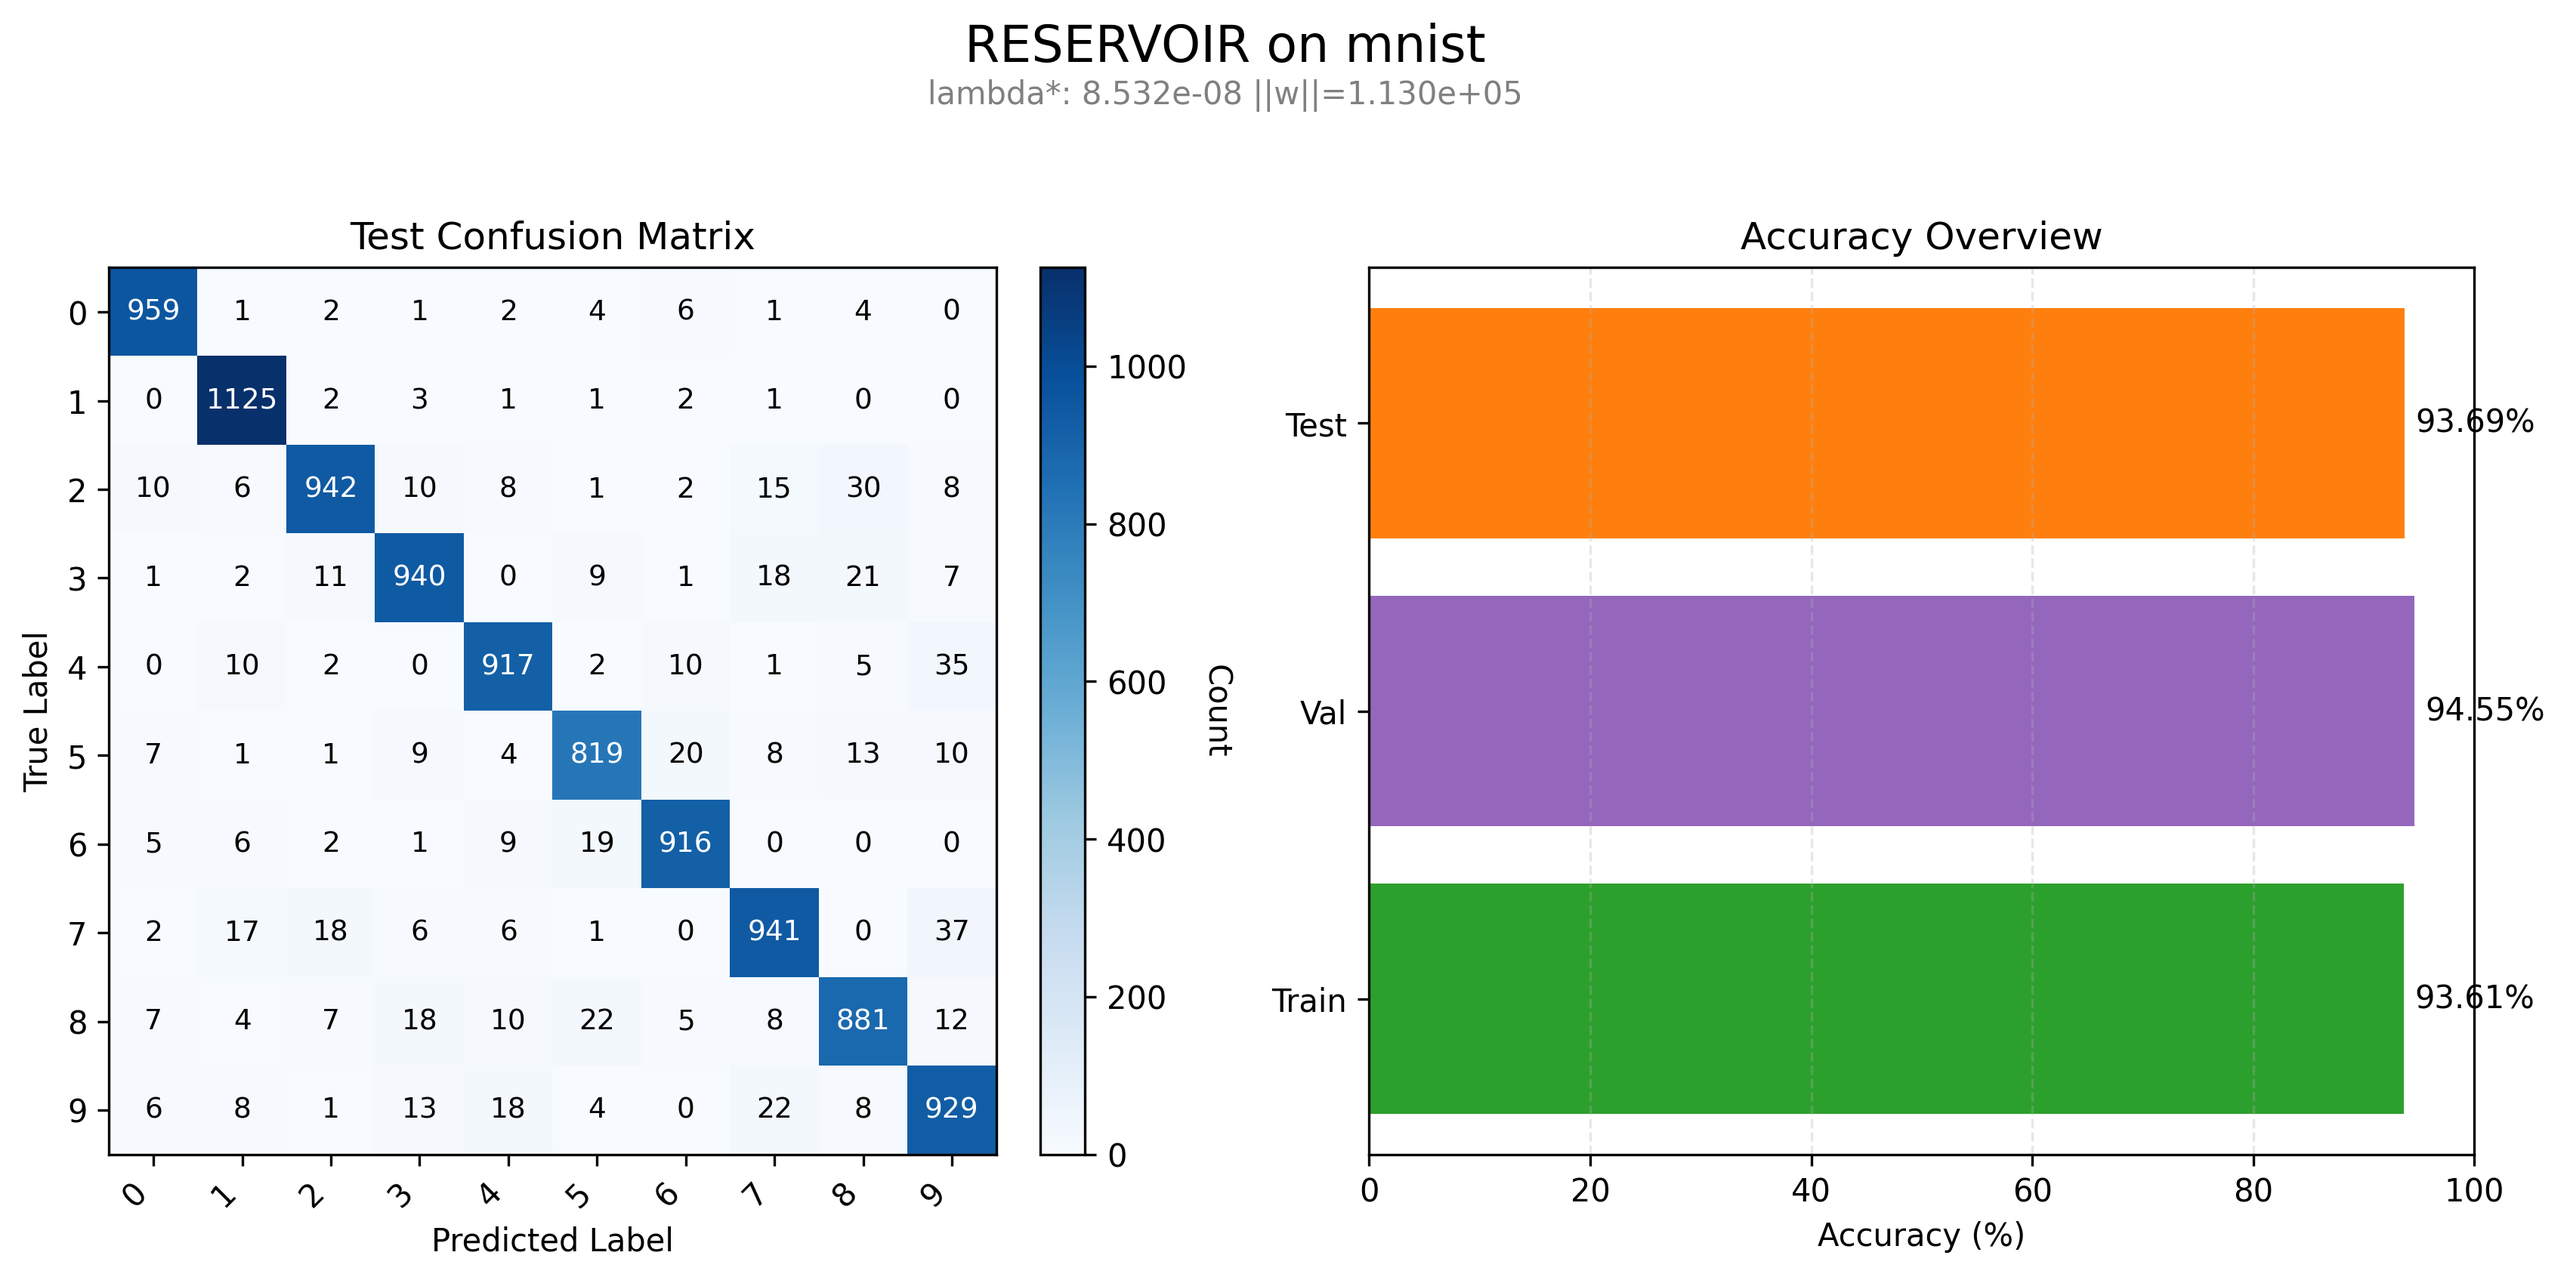
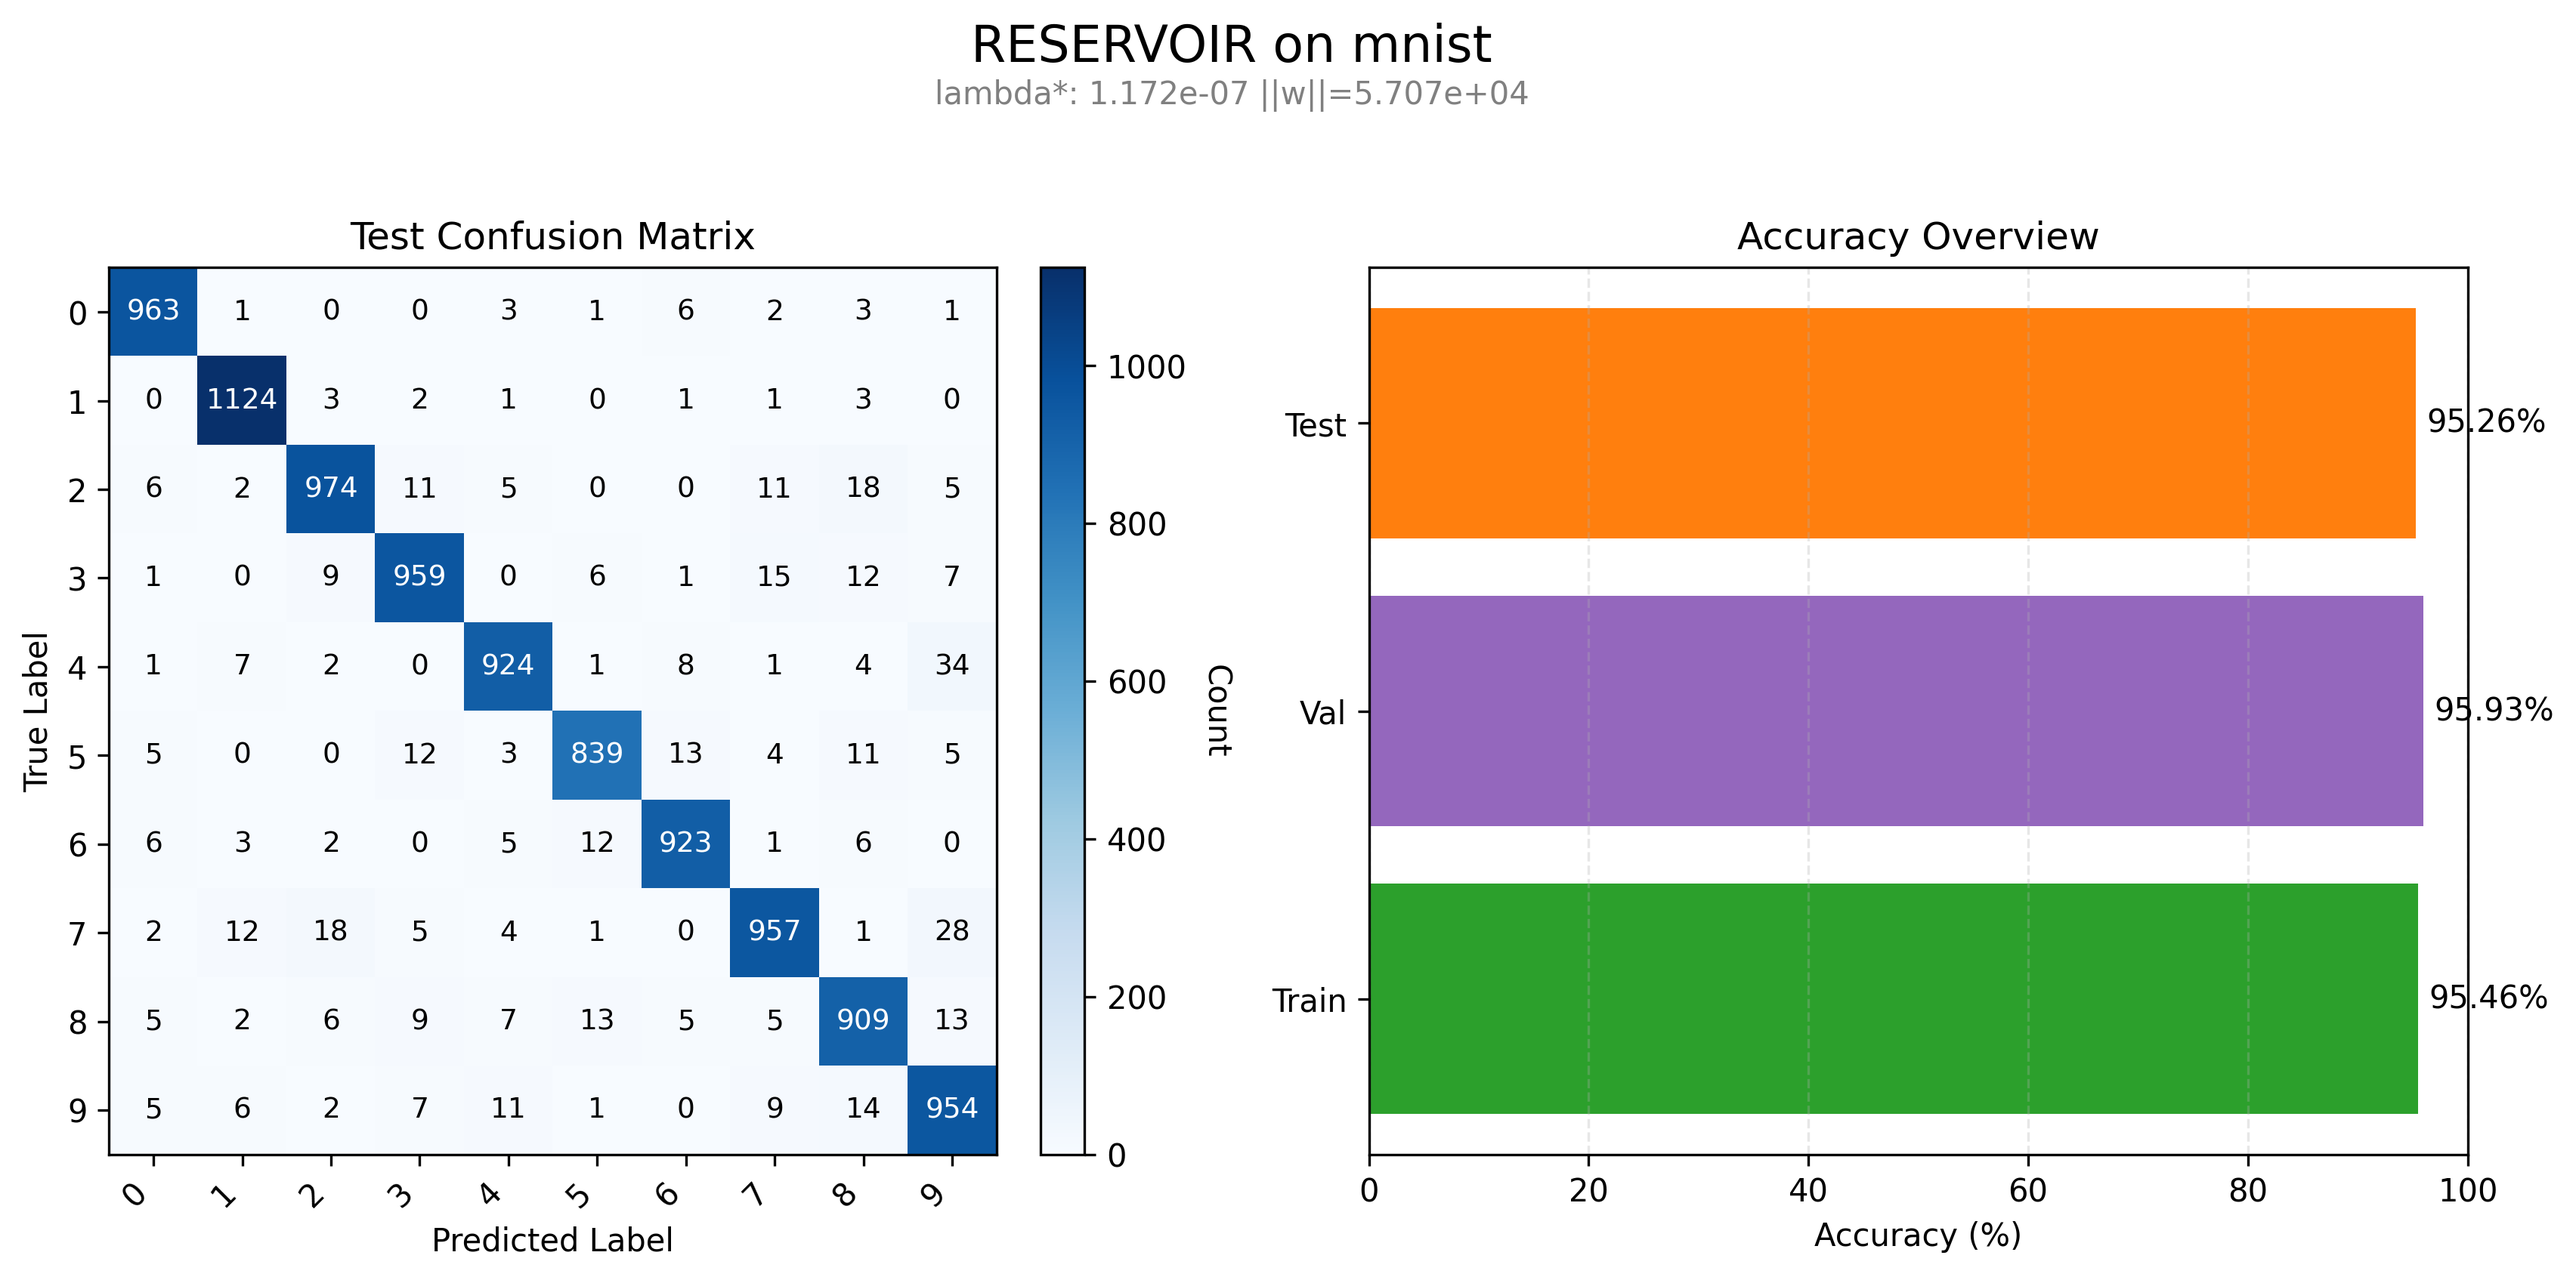
split input_connectivity and rc_connectivity

diff --git a/src/reservoir/models/reservoir/classical.py b/src/reservoir/models/reservoir/classical.py
@@ -26,7 +26,8 @@ class ClassicalReservoir(Reservoir):
         input_scale: float,
         spectral_radius: float,
         leak_rate: float,
-        connectivity: float,
+        input_connectivity: float,
+        rc_connectivity: float,
         noise_rc: float,
         bias_scale: float,
         seed: int,
@@ -36,14 +37,15 @@ class ClassicalReservoir(Reservoir):
         self.input_scale = float(input_scale)
         self.spectral_radius = float(spectral_radius)
         self.leak_rate = float(leak_rate)
-        self.connectivity = float(connectivity)
+        self.input_connectivity = float(input_connectivity)
+        self.rc_connectivity = float(rc_connectivity)
         self.bias_scale = float(bias_scale)
         self._rng = jax.random.PRNGKey(self.seed)
         self.projector = projector or InputProjector(
             n_inputs=self.n_inputs,
             n_units=self.n_units,
             input_scale=self.input_scale,
-            connectivity=self.connectivity,
+            connectivity=self.input_connectivity,
             bias_scale=self.bias_scale,
             seed=self.seed,
         )
@@ -54,8 +56,8 @@ class ClassicalReservoir(Reservoir):
         self._rng = k_res
 
         W_dense = jax.random.normal(k_res, (self.n_units, self.n_units), dtype=jnp.float64)
-        if 0.0 < self.connectivity < 1.0:
-            mask_res = jax.random.bernoulli(k_mask_res, p=self.connectivity, shape=W_dense.shape)
+        if 0.0 < self.rc_connectivity < 1.0:
+            mask_res = jax.random.bernoulli(k_mask_res, p=self.rc_connectivity, shape=W_dense.shape)
             W_dense = jnp.where(mask_res, W_dense, 0.0)
 
         eig = jnp.max(jnp.abs(jnp.linalg.eigvals(W_dense)))
@@ -94,7 +96,8 @@ class ClassicalReservoir(Reservoir):
                 "input_scale": self.input_scale,
                 "spectral_radius": self.spectral_radius,
                 "leak_rate": self.leak_rate,
-                "connectivity": self.connectivity,
+                "input_connectivity": self.input_connectivity,
+                "rc_connectivity": self.rc_connectivity,
                 "bias_scale": self.bias_scale,
                 "seed": self.seed,
             }
@@ -110,7 +113,8 @@ class ClassicalReservoir(Reservoir):
                 input_scale=float(data["input_scale"]),
                 spectral_radius=float(data["spectral_radius"]),
                 leak_rate=float(data["leak_rate"]),
-                connectivity=float(data["connectivity"]),
+                input_connectivity=float(data["input_connectivity"]),
+                rc_connectivity=float(data["rc_connectivity"]),
                 noise_rc=float(data["noise_rc"]),
                 bias_scale=float(data["bias_scale"]),
                 seed=int(data["seed"]),

diff --git a/src/reservoir/models/presets.py b/src/reservoir/models/presets.py
@@ -18,7 +18,8 @@ class ReservoirConfig:
     spectral_radius: float = 1.3
     leak_rate: float = 0.2
     input_scale: float = 0.6
-    connectivity: float = 0.1
+    input_connectivity: float = 0.9 # 0.09 # optimised for rs100? sus
+    rc_connectivity: float = 0.1  #0.59 # optimised for rs100
     bias_scale: float = 1.0
     noise_rc: float = 0.001
     seed: int = 42
@@ -45,8 +46,10 @@ class ReservoirConfig:
             raise ValueError(f"{prefix}leak_rate must be in [0, 1].")
         if not (0.0 < self.input_scale):
             raise ValueError(f"{prefix}input_scale must be > 0.")
-        if not (0.0 < self.connectivity <= 1.0):
-            raise ValueError(f"{prefix}connectivity must be in (0, 1].")
+        if not (0.0 < self.input_connectivity <= 1.0):
+            raise ValueError(f"{prefix}input_connectivity must be in (0, 1].")
+        if not (0.0 < self.rc_connectivity <= 1.0):
+            raise ValueError(f"{prefix}rc_connectivity must be in (0, 1].")
         if self.bias_scale < 0.0:
             raise ValueError(f"{prefix}bias_scale must be >= 0.")
         if self.noise_rc < 0.0:

diff --git a/pipelines/run.py b/pipelines/run.py
@@ -191,7 +191,8 @@ def _get_strict_reservoir_params(config: Dict[str, Any]) -> Dict[str, Any]:
         "input_scale",
         "spectral_radius",
         "leak_rate",
-        "connectivity",
+        "input_connectivity",
+        "rc_connectivity",
         "bias_scale",
         "noise_rc",
         "seed",
@@ -364,7 +365,8 @@ def run_pipeline(
                 input_scale=float(reservoir_params["input_scale"]),
                 spectral_radius=float(reservoir_params["spectral_radius"]),
                 leak_rate=float(reservoir_params["leak_rate"]),
-                connectivity=float(reservoir_params["connectivity"]),
+                input_connectivity=float(reservoir_params["input_connectivity"]),
+                rc_connectivity=float(reservoir_params["rc_connectivity"]),
                 noise_rc=float(reservoir_params["noise_rc"]),
                 bias_scale=float(reservoir_params["bias_scale"]),
                 seed=int(reservoir_params["seed"]),

diff --git a/src/reservoir/models/distillation.py b/src/reservoir/models/distillation.py
@@ -61,7 +61,7 @@ class DistillationModel(BaseModel):
             n_inputs=self.input_dim,
             n_units=int(cfg.n_units),
             input_scale=float(cfg.input_scale),
-            connectivity=float(cfg.connectivity),
+            connectivity=float(cfg.input_connectivity),
             bias_scale=float(cfg.bias_scale),
             seed=int(cfg.seed),
         )
@@ -79,7 +79,8 @@ class DistillationModel(BaseModel):
             input_scale=float(cfg.input_scale),
             spectral_radius=float(cfg.spectral_radius),
             leak_rate=float(cfg.leak_rate),
-            connectivity=float(cfg.connectivity),
+            input_connectivity=float(cfg.input_connectivity),
+            rc_connectivity=float(cfg.rc_connectivity),
             noise_rc=float(cfg.noise_rc),
             bias_scale=float(cfg.bias_scale),
             seed=int(cfg.seed),

diff --git a/src/reservoir/training/presets.py b/src/reservoir/training/presets.py
@@ -31,7 +31,7 @@ class TrainingConfig:
     ridge_lambda: float = 1e-7 # no use but needed for type consistency
     # Defines the search space for validation. Defaults to a log-spaced range around typical values.
     ridge_lambdas: List[float] = field(
-        default_factory=lambda: np.logspace(-9, -5, 30).tolist()
+        default_factory=lambda: np.logspace(-15, -5, 30).tolist()
     )
 
     # Data Splitting //TODO test is already defined at MNIST so what gives test_ratio?
